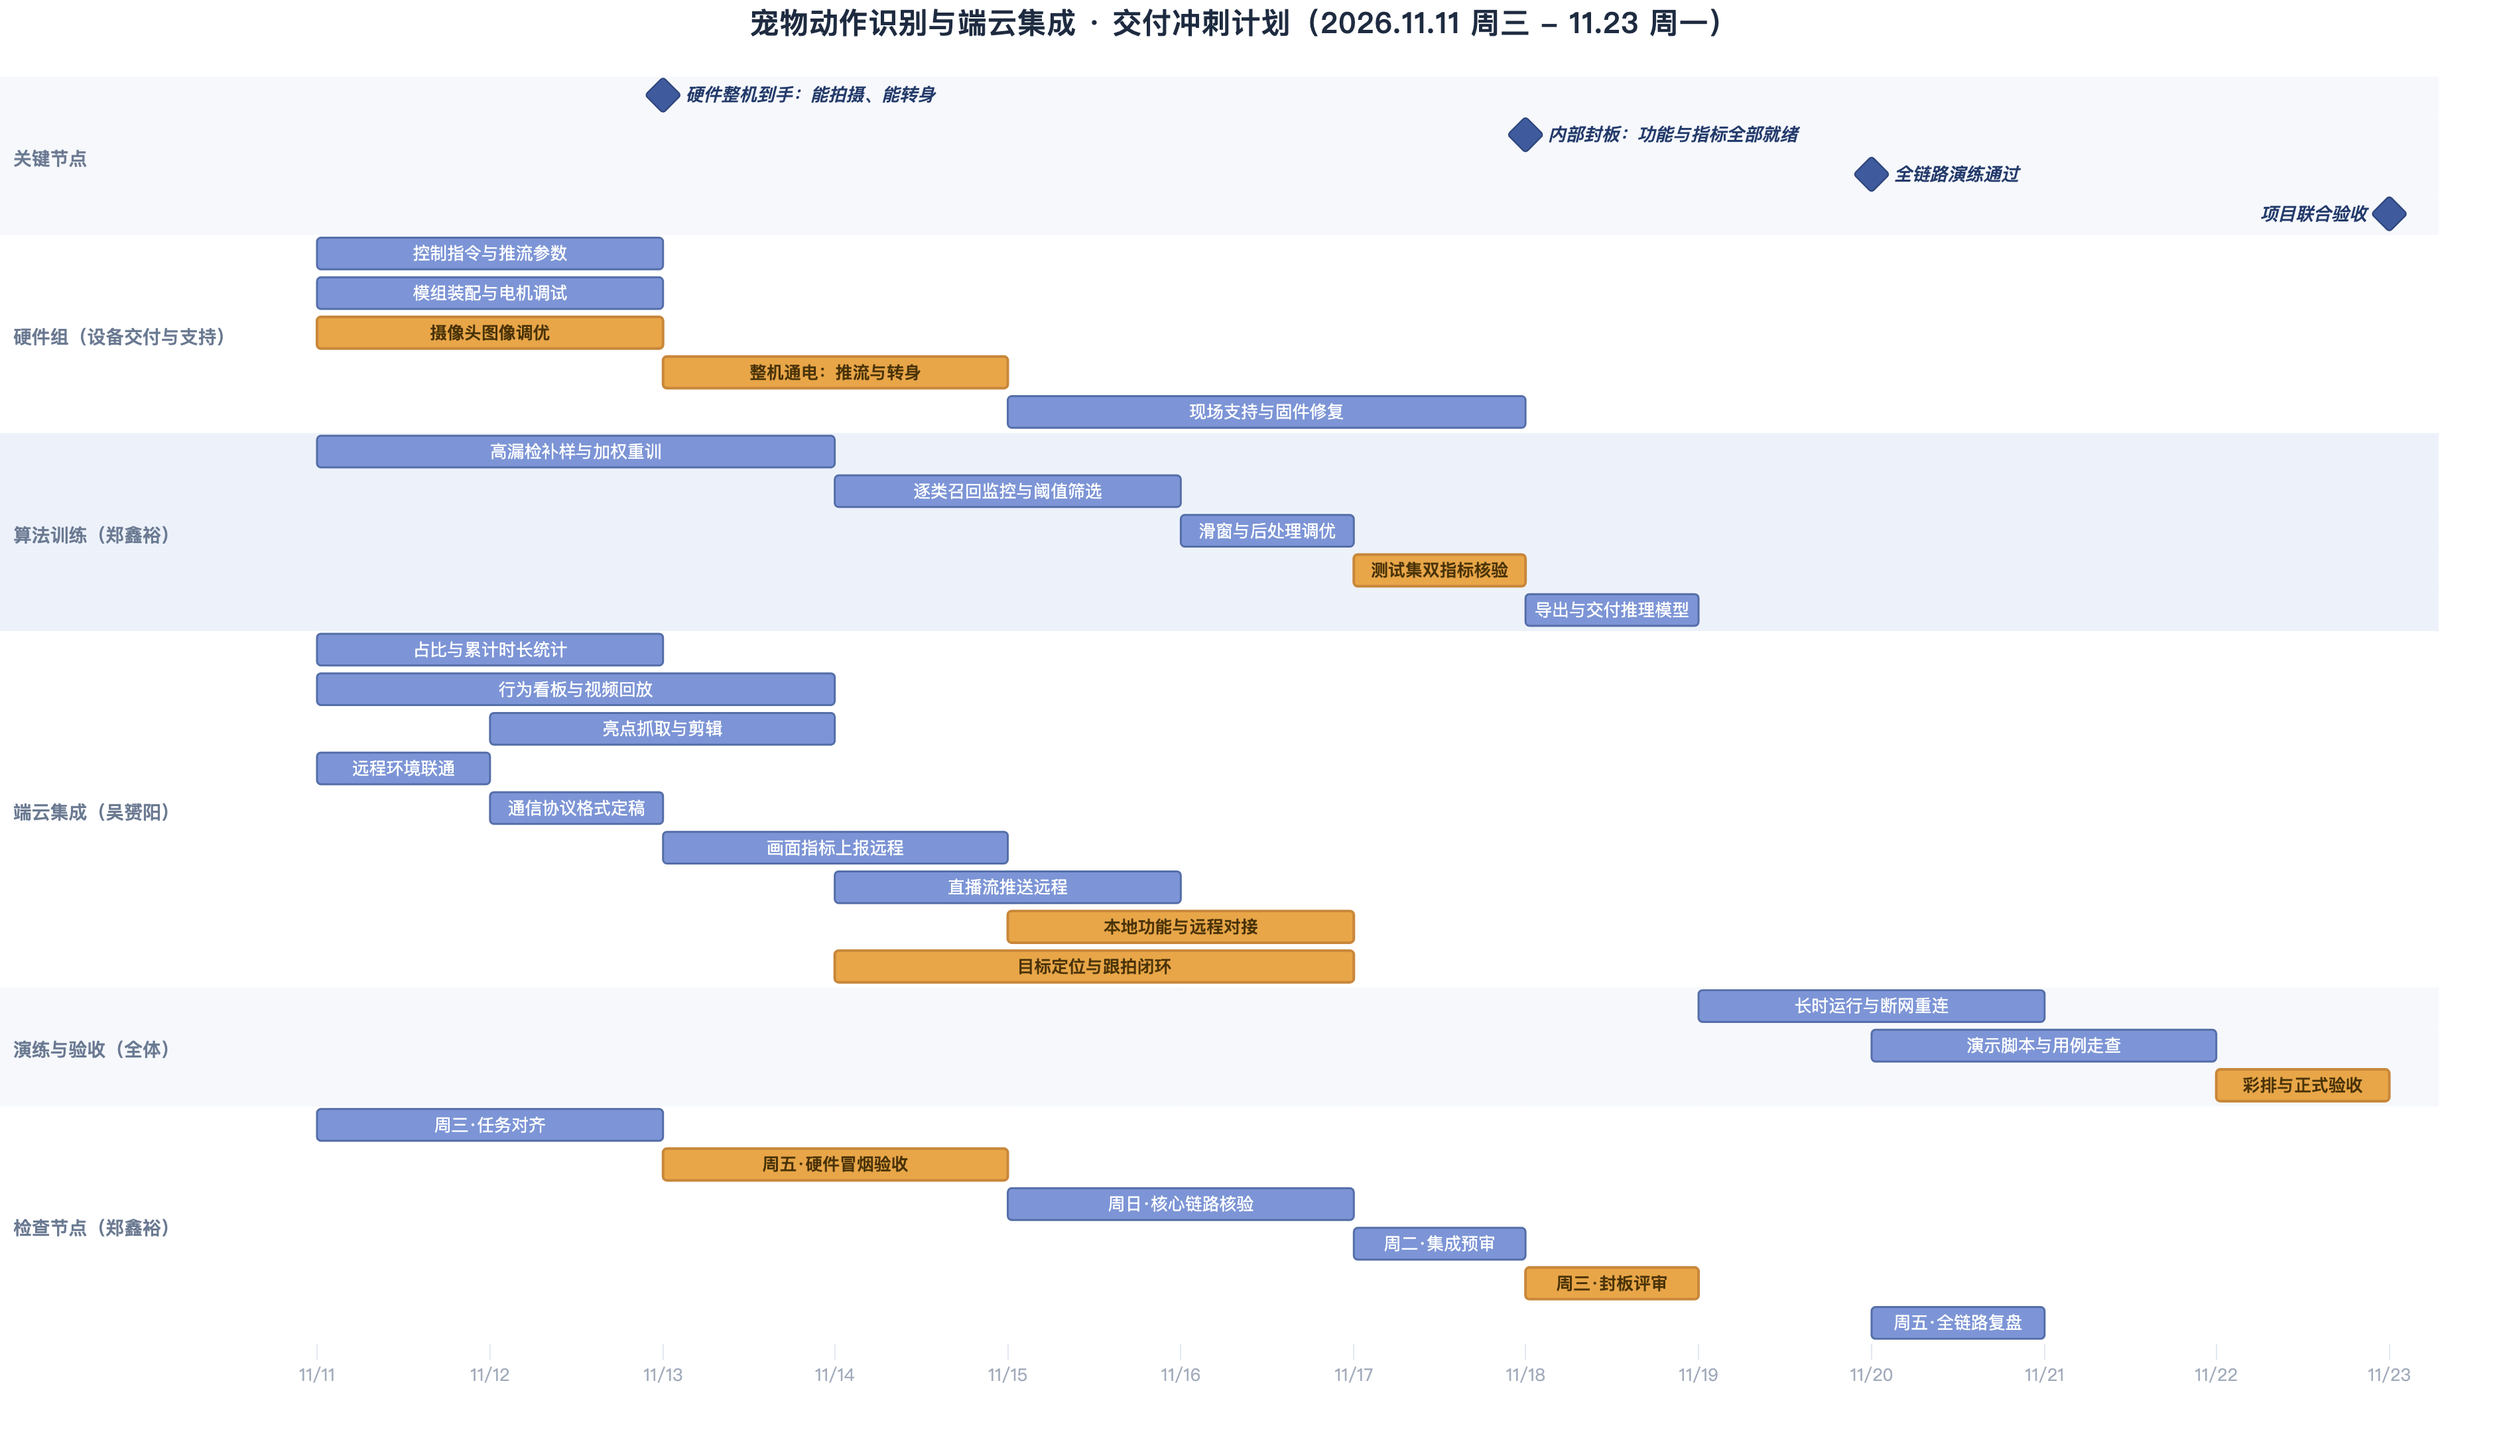
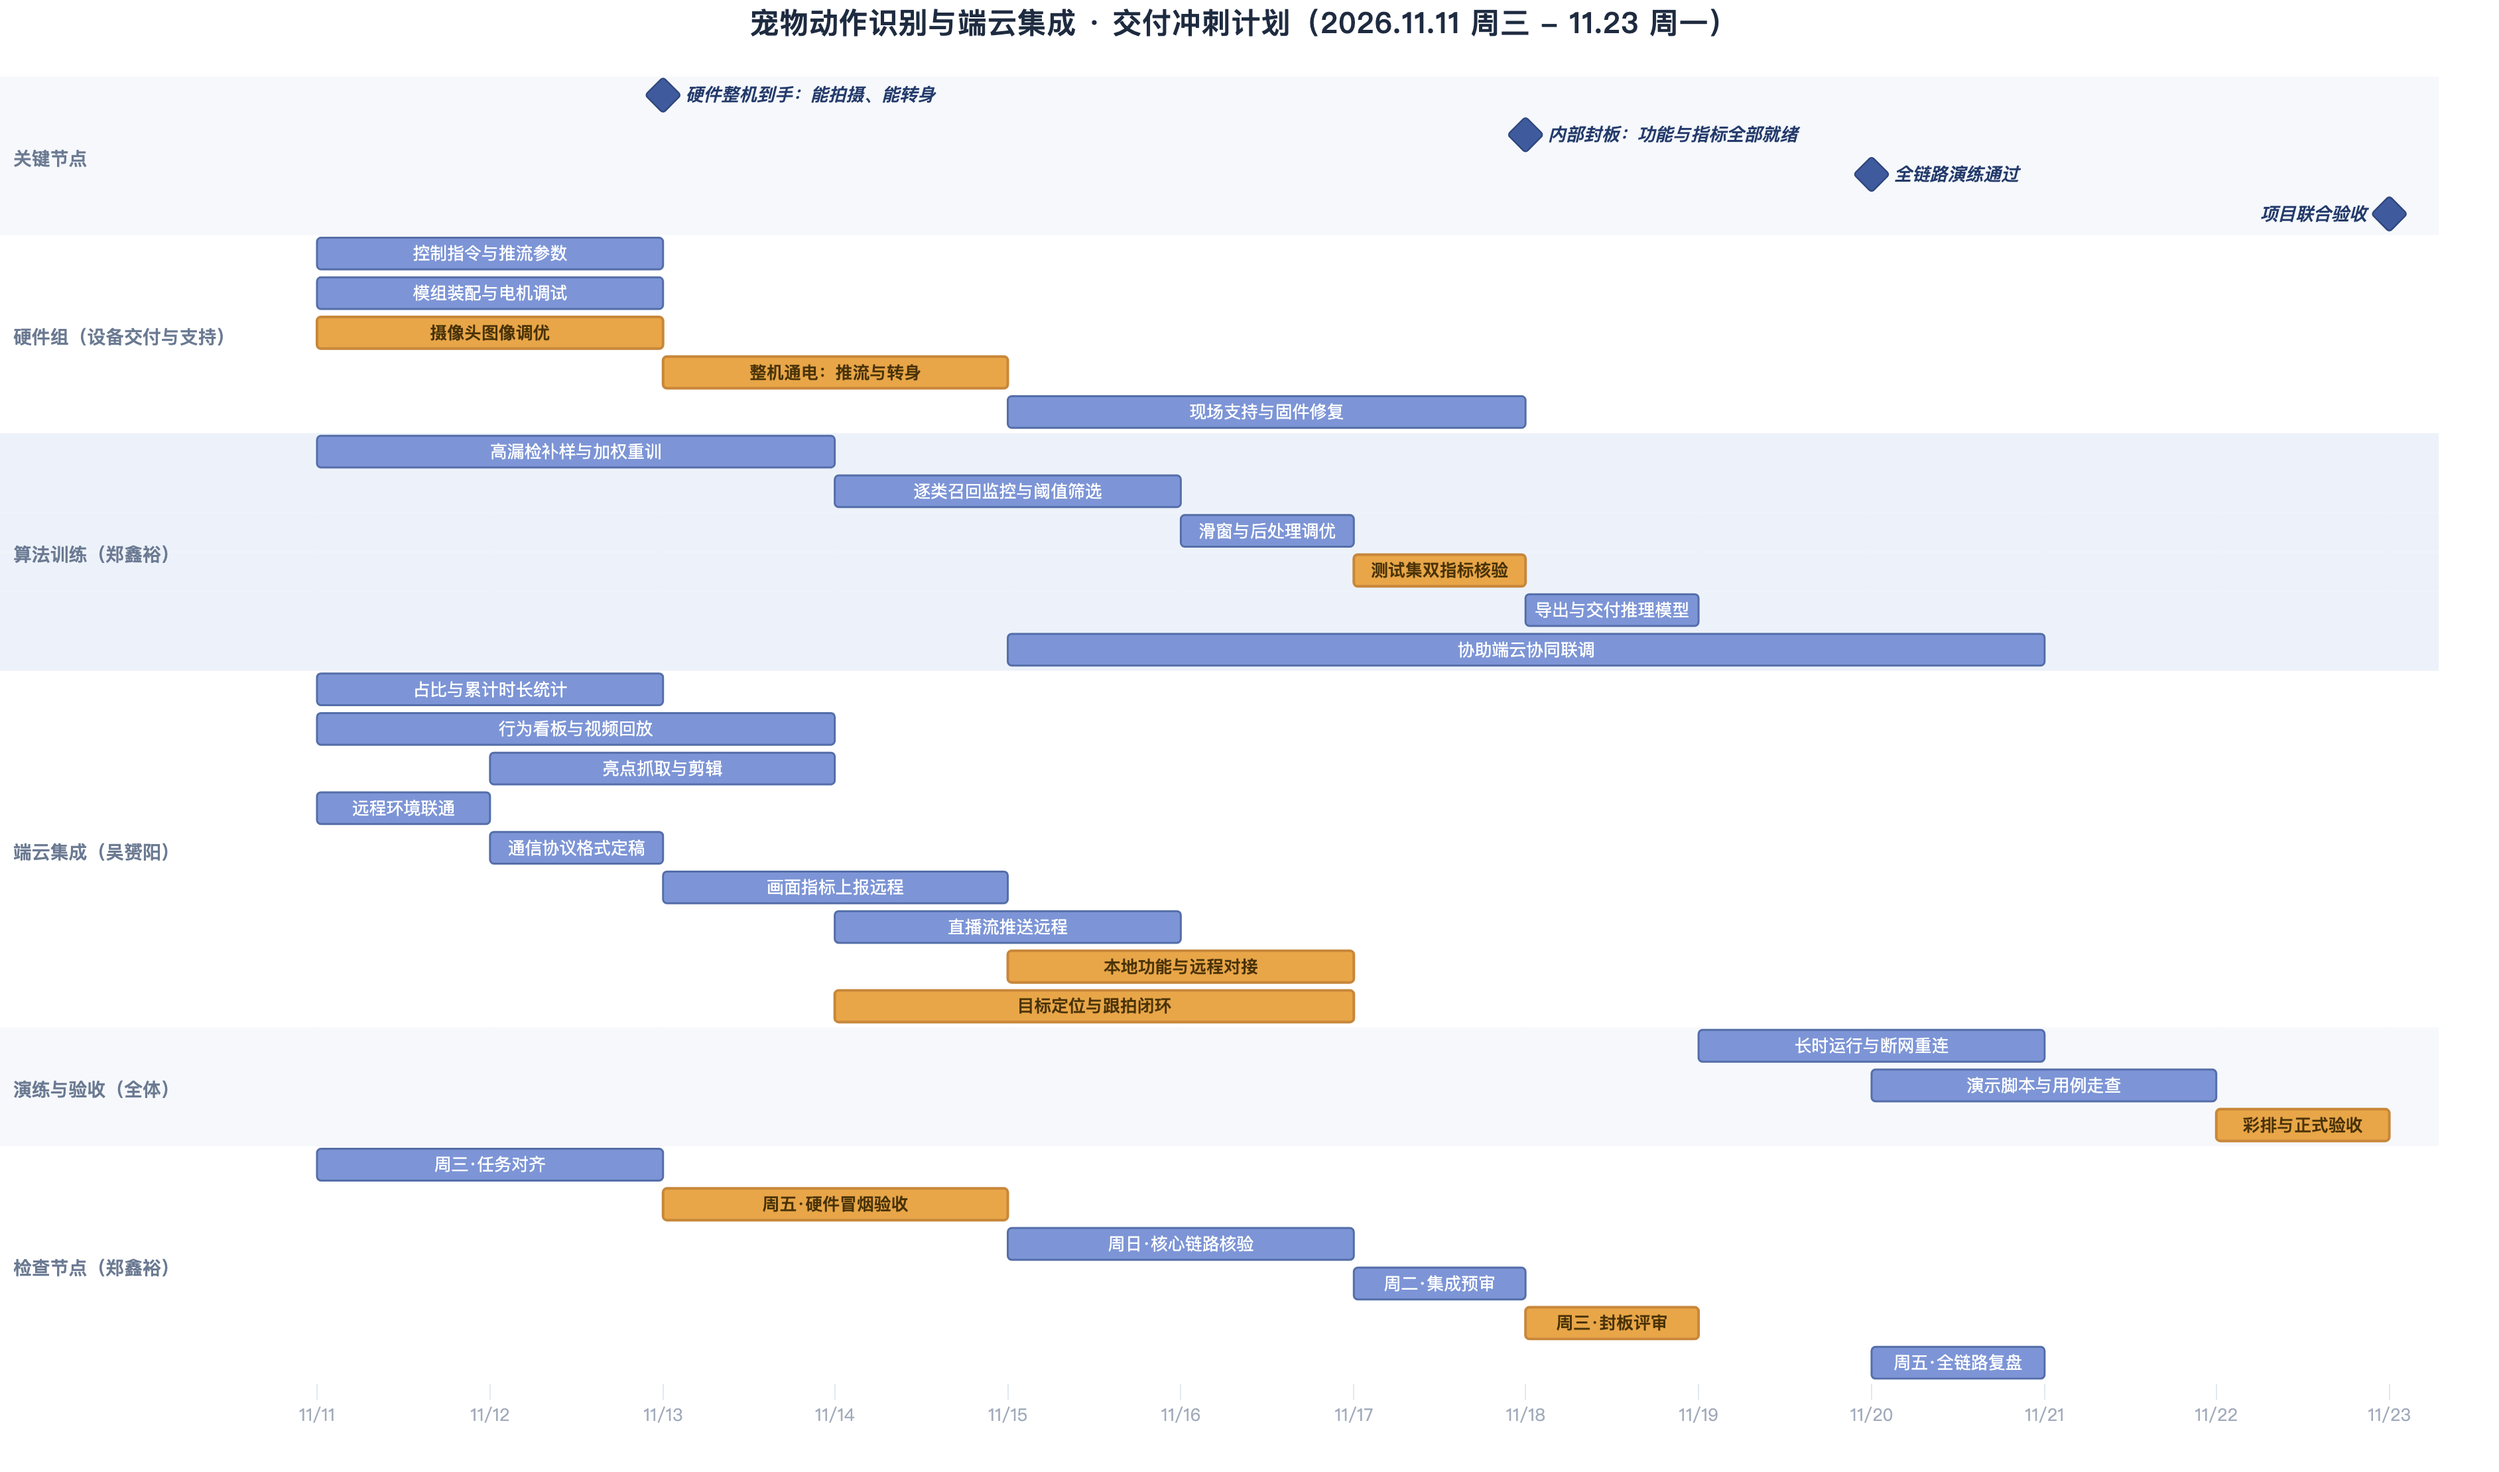
docs(management): 补入郑鑫裕协助端云协同（11.15-11.21）及交付清单
- 甘特图算法线新增「协助端云协同联调」，与重训、指标核验并行
- 文档列出算法侧要供的四样东西与最晚到货时间：推理接口、指标口径、联调响应、亮点判据
- 明确属于固定投入，不允许延后到收尾阶段

diff --git a/management/docs/gantt-implementation-plan-202611.md b/management/docs/gantt-implementation-plan-202611.md
@@ -83,6 +83,19 @@ id: 12
 
 顺序调整的依据：把能独立完成的部分前置，远程联通一旦卡住（网络、鉴权、服务不可用）不能让整条线停着，剩下的时间全部留给必须真机联调的两项——直播推流与跟拍闭环。
 
+#### 协同分工（郑鑫裕协助，11.15 - 11.21）
+
+端云协同不是吴赟阳一个人把两边接完，算法侧要同步供货：
+
+| 吴赟阳需要什么 | 郑鑫裕交付什么 | 最晚到货 |
+| --- | --- | --- |
+| 行为识别结果与置信度 | 推理接口（输入片段、输出类别与分数） | 11.19 |
+| 画面指标的定义口径 | 亮度、对比度、活动幅度的计算方式与取值域 | 11.13，协议定稿前 |
+| 联调时算法侧报错定位 | 日志开园与问题响应，当天不隔夜 | 11.15 - 11.21 |
+| 亮点抓取的判据 | 高置信行为清单与阈值建议 | 11.14 |
+
+这段协助在日历上占 11.15 - 11.21，与重训、指标核验并行，属于固定投入：不接受“有空再说”。
+
 ## 检查节点
 
 | 节点 | 时间 | 核验什么 | 不通过怎么办 |
